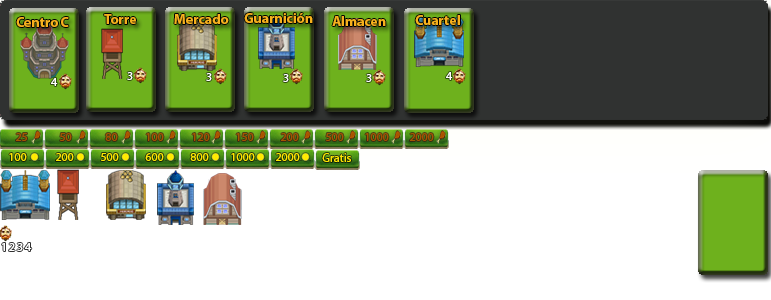
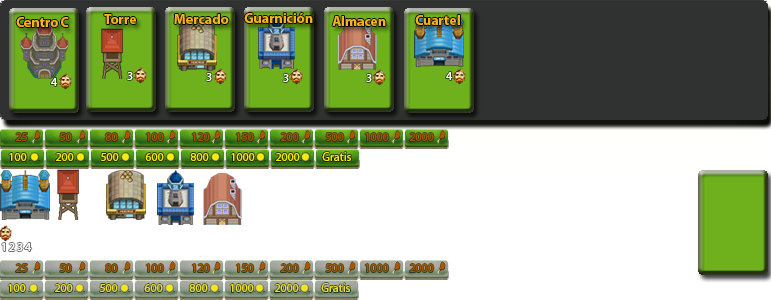
Bloqueo del boton cuando no se cumplen las condiciones.

Changed region(s): [[0.0, 0.81, 0.5914, 1.0], [0.4047, 0.48, 0.4669, 0.57]]

diff --git a/src/DomiNations/Escena.java b/src/DomiNations/Escena.java
@@ -214,35 +214,77 @@ public class Escena extends JPanel implements MouseListener,MouseMotionListener{
         
     }
     
-    public void crear_tienda(){
+    public void crear_tienda(){        
+        borrar_tienda();    
         //Precio Centro
-        Boton boton = new Boton("Centro0");
+        Requerimientos r;
+        Boton boton;
+        Centro Centro=new Centro();
+        r = Requerimiento.buscar_requerimiento("Centro",0);
+        if(aldea.total_comida>=r.costo_comida && aldea.total_oro>=r.costo_oro && aldea.nro_aldeanos_disponibles>=r.nro_aldeanos_requeridos)
+            boton = new Boton("Centro0");
+        else
+            boton = new Boton("NO-Centro0");
         boton.Seleccionar_Localizacion(16, 550);
         vec_botones.add(boton);
+        
         //Precio Torre
-        boton = new Boton("Torre0");
+        Torre tor=new Torre();
+        r = Requerimiento.buscar_requerimiento("Torre",0);
+        if(aldea.total_comida>=r.costo_comida && aldea.total_oro>=r.costo_oro && aldea.nro_aldeanos_disponibles>=r.nro_aldeanos_requeridos)
+            boton = new Boton("Torre0");
+        else
+            boton = new Boton("NO-Torre0");
         boton.Seleccionar_Localizacion(96, 550);
         vec_botones.add(boton);
-        //Precio Mercado
-        boton = new Boton("Mercado0");
+        
+//Precio Mercado
+        Mercado mer=new Mercado();
+        r = Requerimiento.buscar_requerimiento("Mercado",0);
+        if(aldea.total_comida>=r.costo_comida && aldea.total_oro>=r.costo_oro && aldea.nro_aldeanos_disponibles>=r.nro_aldeanos_requeridos)
+            boton = new Boton("Mercado0");
+        else
+            boton = new Boton("NO-Mercado0");
         boton.Seleccionar_Localizacion(173, 550);
         
         vec_botones.add(boton);
+        
         //Precio Guarnicion
-        boton = new Boton("Guarnicion0");
+        Guarnicion guar=new Guarnicion();
+        r = Requerimiento.buscar_requerimiento("Guarnicion",0);
+        if(aldea.total_comida>=r.costo_comida && aldea.total_oro>=r.costo_oro && aldea.nro_aldeanos_disponibles>=r.nro_aldeanos_requeridos)
+               boton = new Boton("Guarnicion0");
+        else
+                boton = new Boton("NO-Guarnicion0");
         boton.Seleccionar_Localizacion(252, 550);
         vec_botones.add(boton);
-        //Precio Almacen
-        boton = new Boton("Almacen0");
+        
+        //Precio Almacen        
+        Almacen alm= new Almacen();
+        r = Requerimiento.buscar_requerimiento("Almacen",0);
+        if(aldea.total_comida>=r.costo_comida && aldea.total_oro>=r.costo_oro && aldea.nro_aldeanos_disponibles>=r.nro_aldeanos_requeridos)
+            boton = new Boton("Almacen0");
+        else 
+            boton = new Boton("NO-Almacen0");
         boton.Seleccionar_Localizacion(332, 550);
         vec_botones.add(boton);
         
         //Precio Cuartel
-        boton = new Boton("Cuartel0");
+        Cuartel cua=new Cuartel();
+        r = Requerimiento.buscar_requerimiento("Cuartel",cua.nivel);
+        if(aldea.total_comida>=r.costo_comida && aldea.total_oro>=r.costo_oro && aldea.nro_aldeanos_disponibles>=r.nro_aldeanos_requeridos)
+            boton = new Boton("Cuartel0");
+        else
+            boton = new Boton("NO-Cuartel0");
         boton.Seleccionar_Localizacion(415, 550);
         vec_botones.add(boton);
     }
-    
+    public void borrar_tienda(){
+        vec_botones.clear();
+        Boton boton = new Boton("Tienda");
+        boton.Seleccionar_Localizacion(692, 542);
+        vec_botones.add(boton);
+    }
     public Objetos_Graficos Tipo_Item(String nombre){
         String clase= nombre.substring(0, nombre.length()-1);
         if(clase.compareTo("Almacen")==0)
@@ -370,8 +412,6 @@ public class Escena extends JPanel implements MouseListener,MouseMotionListener{
         boton.Seleccionar_Localizacion(692, 542);
         vec_botones.add(boton);
         
-        crear_tienda();
-        
         //Vidas Mario
         if(mario.vidas>0){
             obj = new  Objetos_Inanimados(Cargar_Imagenes.obtener_instancia().obtener_imagen(Cargar_Imagenes.INANIMADOS).getImage(), new Rectangulo(357,105,357+(mario.vidas*19),121));
@@ -434,14 +474,8 @@ public class Escena extends JPanel implements MouseListener,MouseMotionListener{
         //Motor_Fisico.getInstance().mouse(e.getX(), e.getY());
         float pos_x = e.getX();
         float pos_y = e.getY();
-        Point punto=MouseInfo.getPointerInfo().getLocation();//este me da la posicion pero en toda la pantalla
-        //System.out.println("Posicion del evento "+e.getX()+"Posicioin del puntero "+punto.x);
-        // System.out.println("Posicion del evento "+e.getY()+"Posicioin del puntero "+punto.y);
-        //System.out.println("X"+pos_x+" "+"Y"+pos_y);
         Objetos_Graficos dinamico;
-        Boton b=new Boton();
-       
-        
+        Boton b=new Boton();      
         
         for(int i=0;i<vec_item_estaticos.size() && !Ventana_tienda;i++){
             dinamico = vec_item_estaticos.get(i); 
@@ -474,15 +508,14 @@ public class Escena extends JPanel implements MouseListener,MouseMotionListener{
         for(int i=1;i<vec_botones.size() && Ventana_tienda;i++){
             dinamico = vec_botones.get(i);
             b=(Boton)vec_botones.get(i);
-            if((pos_x > dinamico.x && pos_x < dinamico.x + dinamico.Obtener_Ancho()) && (pos_y > dinamico.y && pos_y < dinamico.y + dinamico.Obtener_Alto())){
-                if(dinamico instanceof Boton){
-                    elemento=b.Nombre;  
-                    item = Tipo_Item(elemento);
-                    System.out.println(b.Nombre);
-                    agregar_elemento=true;
-                    Ventana_tienda=false;
-                    
-                }
+            if(!b.Nombre.substring(0,2).equals("NO") && (pos_x > dinamico.x && pos_x < dinamico.x + dinamico.Obtener_Ancho()) && (pos_y > dinamico.y && pos_y < dinamico.y + dinamico.Obtener_Alto())){
+                //if(dinamico instanceof Boton){
+                elemento=b.Nombre;  
+                item = Tipo_Item(elemento);
+                System.out.println(b.Nombre);
+                agregar_elemento=true;
+                Ventana_tienda=false;                    
+                //}
             }
         }
     }
@@ -535,12 +568,13 @@ public class Escena extends JPanel implements MouseListener,MouseMotionListener{
         }
         //Agregando elementos a la aldea
         if(pos_x>692 && pos_y>542 && !Ventana_tienda){
-            System.out.println("Tienda");
             Ventana_tienda=true;
-            pintar_menu();
+            crear_tienda();
         }
-        if(Ventana_tienda && pos_y<465)
+        if(Ventana_tienda && pos_y<465){
+            borrar_tienda();
             Ventana_tienda=false;
+        }
     }
     
     

diff --git a/src/DomiNations/Boton.java b/src/DomiNations/Boton.java
@@ -46,6 +46,24 @@ public class Boton extends Objetos_Animados{
         if(Nombre.compareTo("Guarnicion0")==0){
             map.Añadir_accion(Nombre, 133, 130,177, 150, 1, true, 1);
         }
+        if(Nombre.compareTo("NO-Cuartel0")==0){
+            map.Añadir_accion(Nombre, 44, 279, 88, 299, 1, true, 1);
+        }
+        if(Nombre.compareTo("NO-Almacen0")==0){
+            map.Añadir_accion(Nombre, 44, 279, 88, 299, 1, true, 1);
+        }
+        if(Nombre.compareTo("NO-Centro0")==0){
+            map.Añadir_accion(Nombre, 315, 279, 359,299, 1, true, 1);
+        }
+        if(Nombre.compareTo("NO-Torre0")==0){
+            map.Añadir_accion(Nombre, 269, 259,313, 279, 1, true, 1);
+        }
+        if(Nombre.compareTo("NO-Mercado0")==0){
+            map.Añadir_accion(Nombre, 269, 259,313, 279, 1, true, 1);
+        }
+        if(Nombre.compareTo("NO-Guarnicion0")==0){
+            map.Añadir_accion(Nombre, 133, 259,177, 279, 1, true, 1);
+        }
               
         //Crear la hoja de sprites
         animacion = new Animacion(map, nombre, Cargar_Imagenes.obtener_instancia().obtener_imagen(Cargar_Imagenes.BOTONES).getImage());
